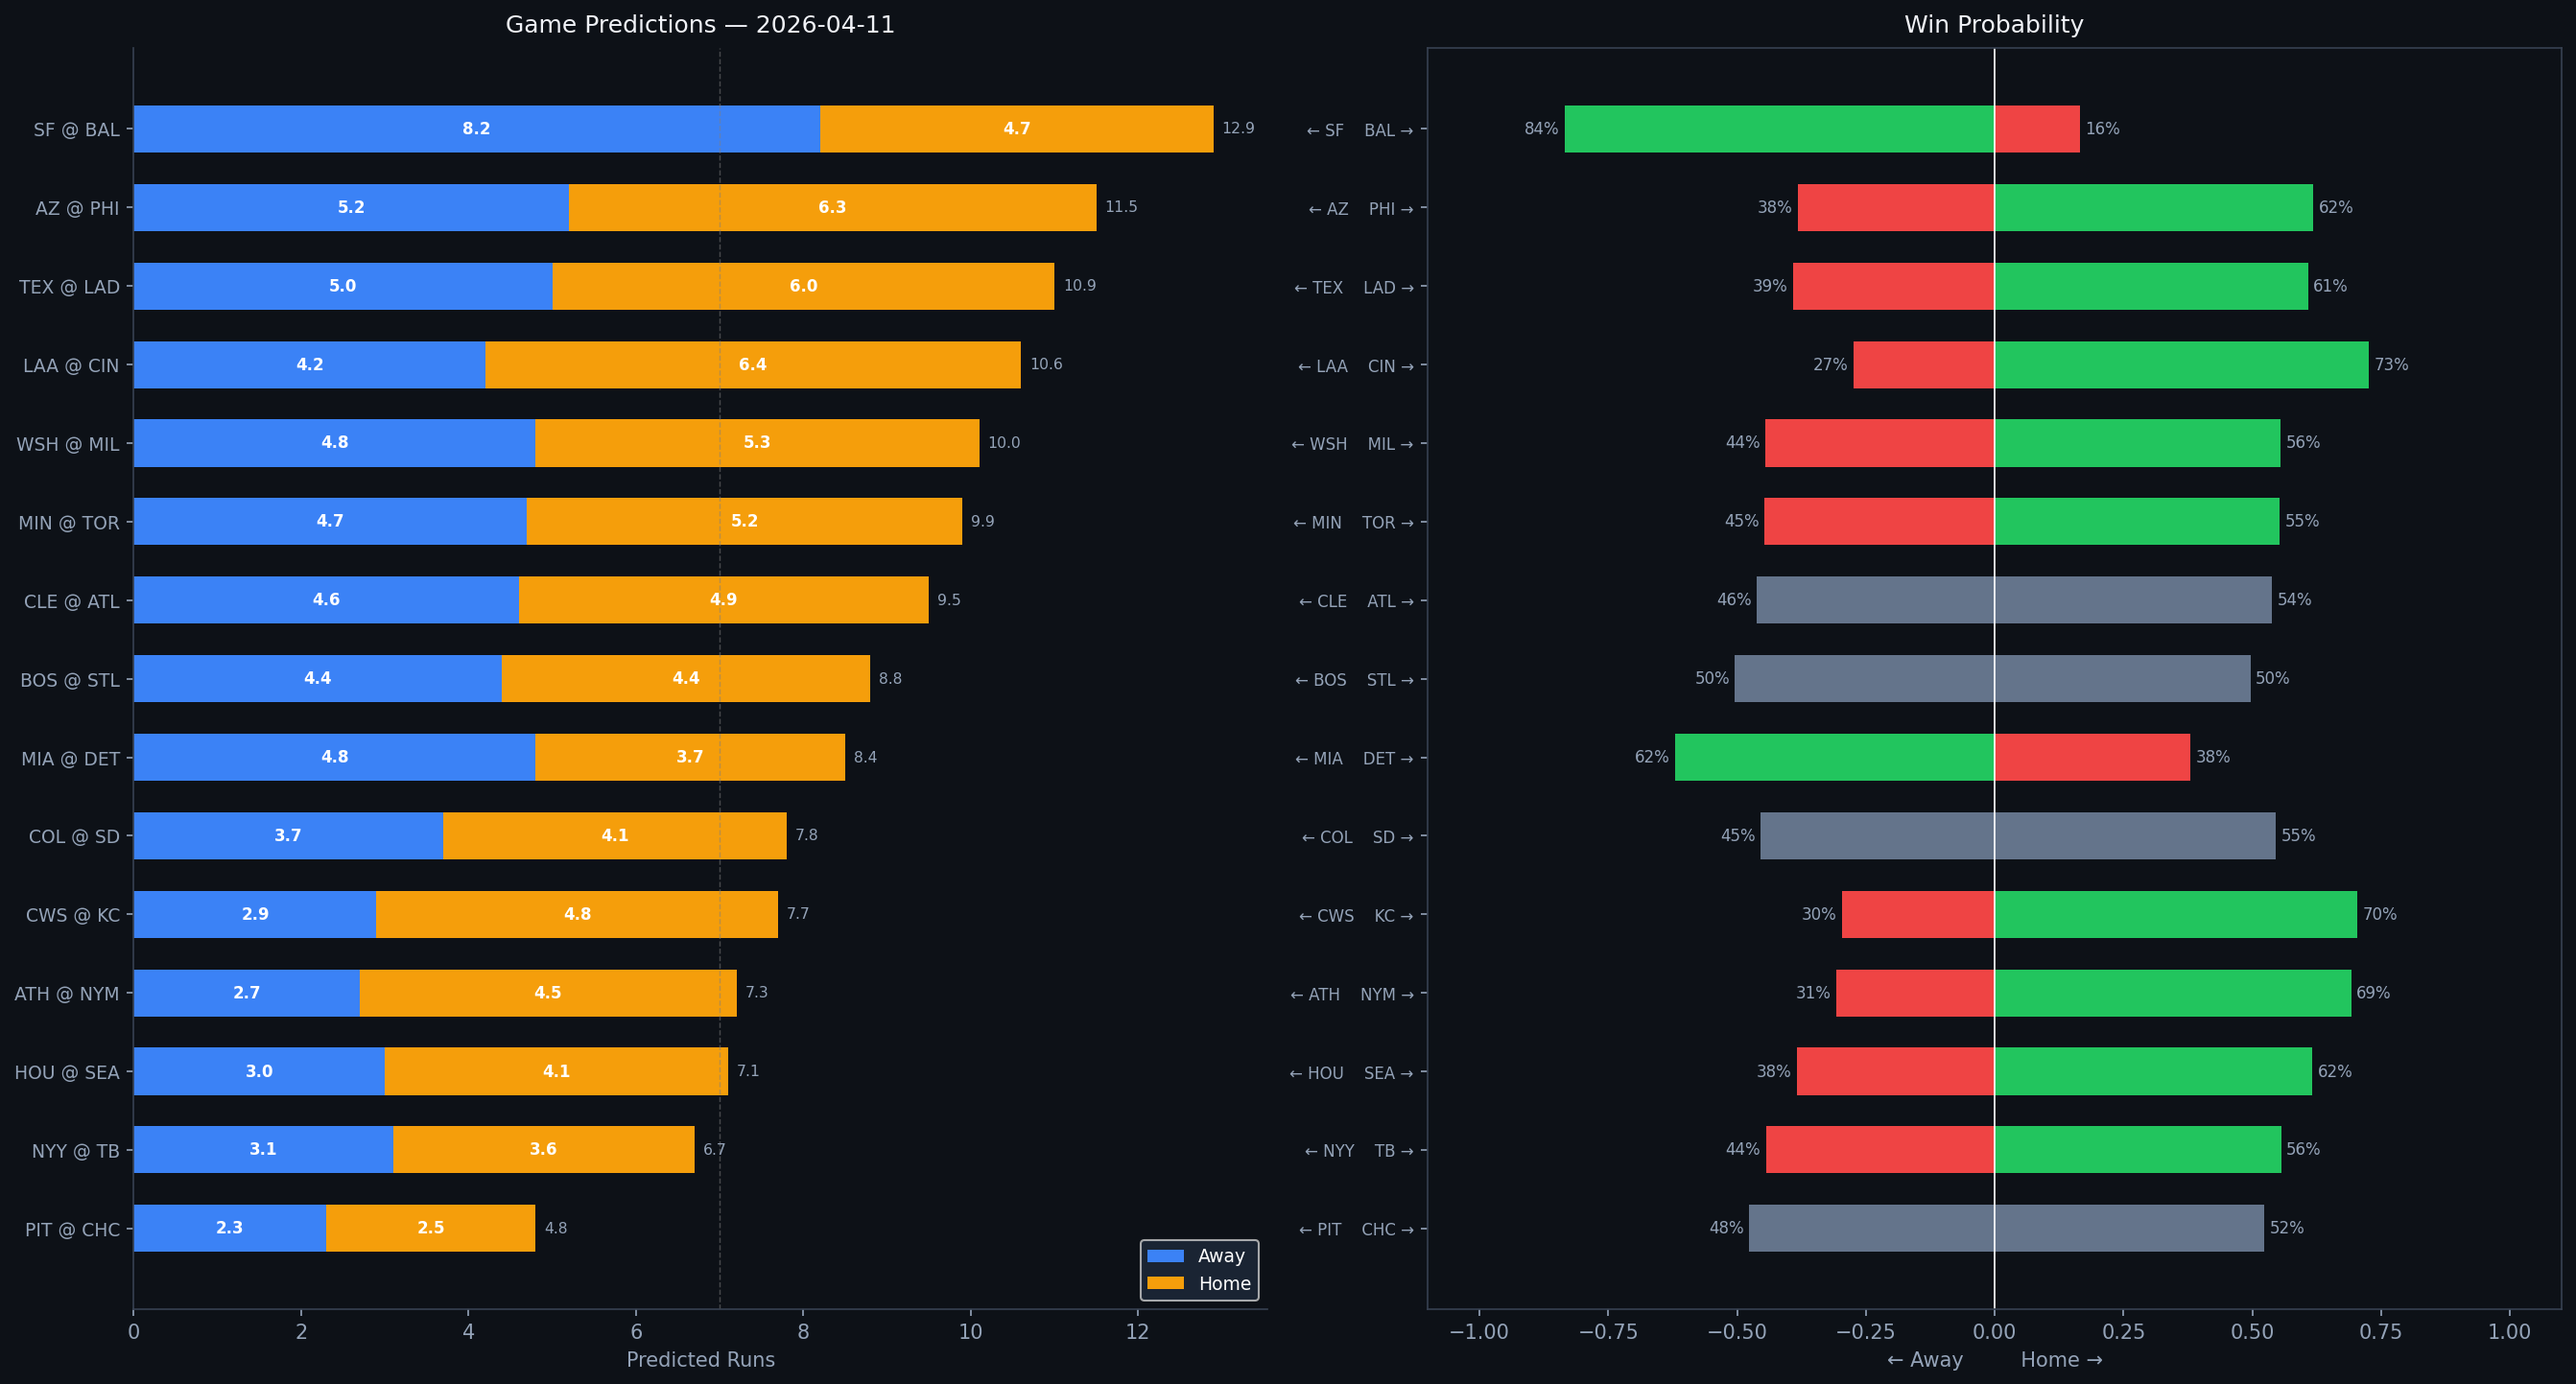
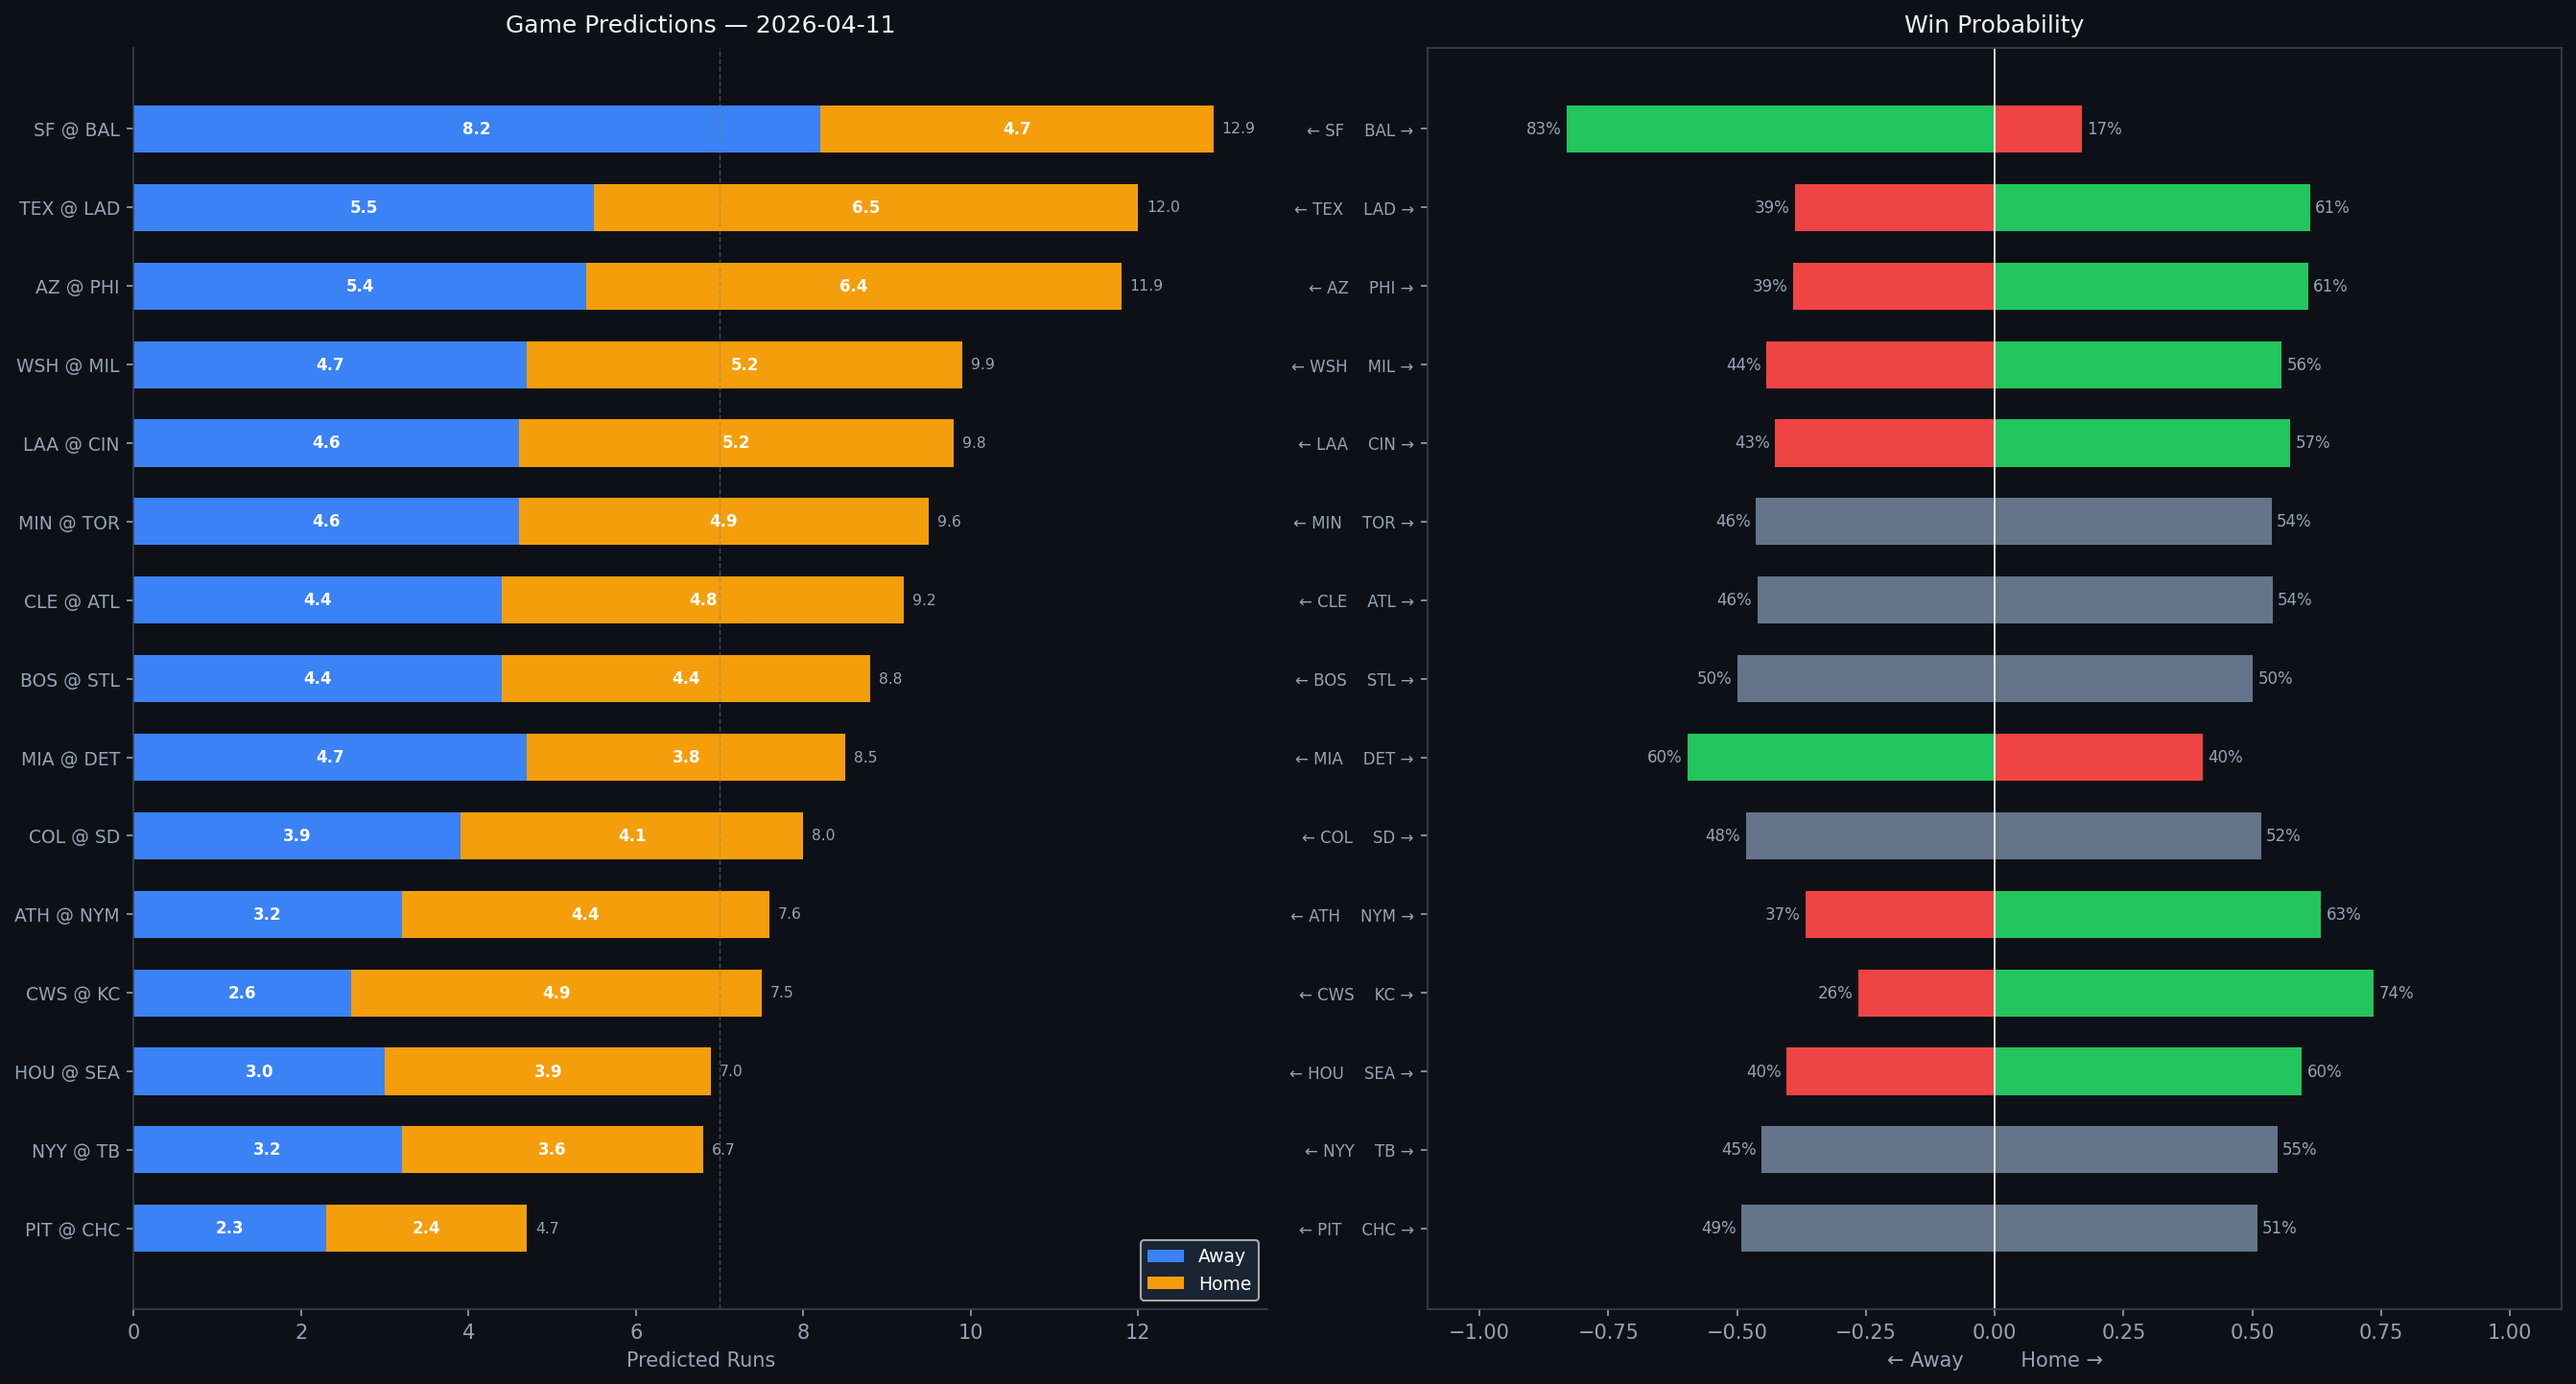
predictions: 2026-04-11 [skip ci]

diff --git a/docs/index.html b/docs/index.html
@@ -101,196 +101,196 @@
           <td class="matchup">SF @ BAL</td>
           <td class="score">8.2 – 4.7</td>
           <td class="winner-away">SF</td>
-          <td>16% / 84%</td>
+          <td>17% / 83%</td>
           <td class="total">12.9</td>
           <td>0.731 / 0.816</td>
           <td>0.347 / 0.27</td>
           <td>11.7% / 8.0%</td>
-          <td>Chris Bassitt (3.69)</td>
           <td>Logan Webb (3.41) <span class="elite">⚡ Logan Webb</span></td>
+          <td>Chris Bassitt (3.69)</td>
+          <td class="weather">80°F / 22mph / 3% rain</td>
+        </tr>
+        <tr>
+          <td class="matchup">TEX @ LAD</td>
+          <td class="score">5.5 – 6.5</td>
+          <td class="winner-home">LAD</td>
+          <td>61% / 39%</td>
+          <td class="total">12.0</td>
+          <td>0.755 / 0.768</td>
+          <td>0.41 / 0.328</td>
+          <td>13.7% / 14.3%</td>
+          <td>Jack Leiter (4.67)</td>
+          <td>Emmet Sheehan (4.04)</td>
           <td class="weather">72°F / 8mph / 10% rain</td>
         </tr>
         <tr>
           <td class="matchup">AZ @ PHI</td>
-          <td class="score">5.2 – 6.3</td>
+          <td class="score">5.4 – 6.4</td>
           <td class="winner-home">PHI</td>
-          <td>62% / 38%</td>
-          <td class="total">11.5</td>
-          <td>0.786 / 0.73</td>
+          <td>61% / 39%</td>
+          <td class="total">11.9</td>
+          <td>0.786 / 0.727</td>
           <td>0.334 / 0.317</td>
           <td>12.0% / 12.5%</td>
-          <td>Taijuan Walker (4.22)</td>
           <td>Brandon Pfaadt (5.17)</td>
-          <td class="weather">65°F / 12mph / 0% rain</td>
-        </tr>
-        <tr>
-          <td class="matchup">TEX @ LAD</td>
-          <td class="score">5.0 – 6.0</td>
-          <td class="winner-home">LAD</td>
-          <td>61% / 39%</td>
-          <td class="total">10.9</td>
-          <td>0.755 / 0.768</td>
-          <td>0.41 / 0.328</td>
-          <td>13.7% / 14.3%</td>
-          <td>Emmet Sheehan (4.04)</td>
-          <td>Jack Leiter (4.67)</td>
-          <td class="weather">72°F / 8mph / 10% rain</td>
-        </tr>
-        <tr>
-          <td class="matchup">LAA @ CIN</td>
-          <td class="score">4.2 – 6.4</td>
-          <td class="winner-home">CIN</td>
-          <td>73% / 27%</td>
-          <td class="total">10.6</td>
-          <td>0.742 / 0.725</td>
-          <td>0.298 / 0.261</td>
-          <td>12.5% / 9.8%</td>
-          <td>Brandon Williamson (4.42)</td>
-          <td>George Klassen (6.75)</td>
-          <td class="weather">88°F / 11mph / 0% rain 🏟</td>
+          <td>Taijuan Walker (4.23)</td>
+          <td class="weather">64°F / 11mph / 0% rain</td>
         </tr>
         <tr>
           <td class="matchup">WSH @ MIL</td>
-          <td class="score">4.8 – 5.3</td>
+          <td class="score">4.7 – 5.2</td>
           <td class="winner-home">MIL</td>
           <td>56% / 44%</td>
-          <td class="total">10.0</td>
+          <td class="total">9.9</td>
           <td>0.7 / 0.687</td>
           <td>0.33 / 0.365</td>
           <td>10.3% / 9.5%</td>
-          <td>Kyle Harrison (4.3)</td>
           <td>Foster Griffin (4.5)</td>
+          <td>Kyle Harrison (4.3)</td>
+          <td class="weather">44°F / 10mph / 49% rain</td>
+        </tr>
+        <tr>
+          <td class="matchup">LAA @ CIN</td>
+          <td class="score">4.6 – 5.2</td>
+          <td class="winner-home">CIN</td>
+          <td>57% / 43%</td>
+          <td class="total">9.8</td>
+          <td>0.77 / 0.728</td>
+          <td>0.305 / 0.238</td>
+          <td>13.7% / 10.2%</td>
+          <td>George Klassen (6.75)</td>
+          <td>Brandon Williamson (4.42)</td>
           <td class="weather">72°F / 8mph / 10% rain 🏟</td>
         </tr>
         <tr>
           <td class="matchup">MIN @ TOR</td>
-          <td class="score">4.7 – 5.2</td>
+          <td class="score">4.6 – 4.9</td>
           <td class="winner-home">TOR</td>
-          <td>55% / 45%</td>
-          <td class="total">9.9</td>
+          <td>54% / 46%</td>
+          <td class="total">9.6</td>
           <td>0.747 / 0.692</td>
           <td>0.334 / 0.284</td>
           <td>11.9% / 11.4%</td>
-          <td>Eric Lauer (4.14)</td>
           <td>Joe Ryan (3.8)</td>
-          <td class="weather">48°F / 6mph / 2% rain</td>
+          <td>Eric Lauer (4.14)</td>
+          <td class="weather">49°F / 7mph / 3% rain</td>
         </tr>
         <tr>
           <td class="matchup">CLE @ ATL</td>
-          <td class="score">4.6 – 4.9</td>
+          <td class="score">4.4 – 4.8</td>
           <td class="winner-home">ATL</td>
           <td>54% / 46%</td>
-          <td class="total">9.5</td>
+          <td class="total">9.2</td>
           <td>0.722 / 0.713</td>
           <td>0.283 / 0.327</td>
           <td>11.0% / 12.5%</td>
-          <td>Martín Pérez (4.41)</td>
           <td>Parker Messick (2.31)</td>
-          <td class="weather">72°F / 8mph / 10% rain 🏟</td>
+          <td>Martín Pérez (4.41)</td>
+          <td class="weather">61°F / 14mph / 0% rain</td>
         </tr>
         <tr>
           <td class="matchup">BOS @ STL</td>
           <td class="score">4.4 – 4.4</td>
-          <td class="winner-away">BOS</td>
+          <td class="winner-home">STL</td>
           <td>50% / 50%</td>
           <td class="total">8.8</td>
           <td>0.669 / 0.699</td>
           <td>0.28 / 0.275</td>
           <td>10.7% / 8.0%</td>
-          <td>Kyle Leahy (3.76)</td>
           <td>Ranger Suarez (3.43)</td>
-          <td class="weather">72°F / 8mph / 10% rain</td>
+          <td>Kyle Leahy (3.76)</td>
+          <td class="weather">59°F / 6mph / 0% rain</td>
         </tr>
         <tr>
           <td class="matchup">MIA @ DET</td>
-          <td class="score">4.8 – 3.7</td>
+          <td class="score">4.7 – 3.8</td>
           <td class="winner-away">MIA</td>
-          <td>38% / 62%</td>
-          <td class="total">8.4</td>
+          <td>40% / 60%</td>
+          <td class="total">8.5</td>
           <td>0.739 / 0.722</td>
           <td>0.3 / 0.304</td>
           <td>13.9% / 12.0%</td>
-          <td>Casey Mize (4.22)</td>
           <td>Janson Junk (4.73)</td>
-          <td class="weather">49°F / 6mph / 2% rain</td>
+          <td>Casey Mize (4.21)</td>
+          <td class="weather">50°F / 7mph / 3% rain</td>
         </tr>
         <tr>
           <td class="matchup">COL @ SD</td>
-          <td class="score">3.7 – 4.1</td>
+          <td class="score">3.9 – 4.1</td>
           <td class="winner-home">SD</td>
-          <td>55% / 45%</td>
-          <td class="total">7.8</td>
+          <td>52% / 48%</td>
+          <td class="total">8.0</td>
           <td>0.737 / 0.679</td>
           <td>0.308 / 0.336</td>
           <td>12.5% / 11.8%</td>
-          <td>Germán Márquez (4.67)</td>
           <td>Ryan Feltner (5.17)</td>
+          <td>Germán Márquez (4.67)</td>
+          <td class="weather">72°F / 8mph / 10% rain</td>
+        </tr>
+        <tr>
+          <td class="matchup">ATH @ NYM</td>
+          <td class="score">3.2 – 4.4</td>
+          <td class="winner-home">NYM</td>
+          <td>63% / 37%</td>
+          <td class="total">7.6</td>
+          <td>0.707 / 0.701</td>
+          <td>0.326 / 0.319</td>
+          <td>10.7% / 9.2%</td>
+          <td>Jacob Lopez (4.37)</td>
+          <td>Kodai Senga (3.0)</td>
           <td class="weather">72°F / 8mph / 10% rain</td>
         </tr>
         <tr>
           <td class="matchup">CWS @ KC</td>
-          <td class="score">2.9 – 4.8</td>
+          <td class="score">2.6 – 4.9</td>
           <td class="winner-home">KC</td>
-          <td>70% / 30%</td>
-          <td class="total">7.7</td>
+          <td>74% / 26%</td>
+          <td class="total">7.5</td>
           <td>0.736 / 0.608</td>
           <td>0.303 / 0.28</td>
           <td>12.5% / 11.0%</td>
-          <td>Michael Wacha (3.86)</td>
           <td>Erick Fedde (4.93)</td>
-          <td class="weather">80°F / 22mph / 5% rain</td>
-        </tr>
-        <tr>
-          <td class="matchup">ATH @ NYM</td>
-          <td class="score">2.7 – 4.5</td>
-          <td class="winner-home">NYM</td>
-          <td>69% / 31%</td>
-          <td class="total">7.3</td>
-          <td>0.707 / 0.701</td>
-          <td>0.326 / 0.319</td>
-          <td>10.7% / 9.2%</td>
-          <td>Kodai Senga (3.0)</td>
-          <td>Jacob Lopez (4.37)</td>
-          <td class="weather">62°F / 14mph / 0% rain</td>
+          <td>Michael Wacha (3.86)</td>
+          <td class="weather">72°F / 8mph / 10% rain</td>
         </tr>
         <tr>
           <td class="matchup">HOU @ SEA</td>
-          <td class="score">3.0 – 4.1</td>
+          <td class="score">3.0 – 3.9</td>
           <td class="winner-home">SEA</td>
-          <td>62% / 38%</td>
-          <td class="total">7.1</td>
+          <td>60% / 40%</td>
+          <td class="total">7.0</td>
           <td>0.73 / 0.734</td>
           <td>0.262 / 0.339</td>
           <td>10.2% / 9.3%</td>
-          <td>Luis Castillo (3.55)</td>
           <td>Lance McCullers Jr. (3.69)</td>
+          <td>Luis Castillo (3.55)</td>
           <td class="weather">72°F / 8mph / 10% rain</td>
         </tr>
         <tr>
           <td class="matchup">NYY @ TB</td>
-          <td class="score">3.1 – 3.6</td>
+          <td class="score">3.2 – 3.6</td>
           <td class="winner-home">TB</td>
-          <td>56% / 44%</td>
+          <td>55% / 45%</td>
           <td class="total">6.7</td>
           <td>0.685 / 0.77</td>
           <td>0.317 / 0.313</td>
           <td>9.9% / 13.5%</td>
-          <td>Nick Martinez (4.13)</td>
           <td>Max Fried (3.0)</td>
-          <td class="weather">80°F / 22mph / 5% rain</td>
+          <td>Nick Martinez (4.13)</td>
+          <td class="weather">72°F / 8mph / 10% rain</td>
         </tr>
         <tr>
           <td class="matchup">PIT @ CHC</td>
-          <td class="score">2.3 – 2.5</td>
+          <td class="score">2.3 – 2.4</td>
           <td class="winner-home">CHC</td>
-          <td>52% / 48%</td>
-          <td class="total">4.8</td>
-          <td>0.754 / 0.677</td>
-          <td>0.326 / 0.241</td>
-          <td>15.2% / 9.6%</td>
-          <td>Edward Cabrera (3.96)</td>
+          <td>51% / 49%</td>
+          <td class="total">4.7</td>
+          <td>0.76 / 0.703</td>
+          <td>0.313 / 0.307</td>
+          <td>14.2% / 11.2%</td>
           <td>Braxton Ashcraft (2.64)</td>
-          <td class="weather">80°F / 22mph / 5% rain</td>
+          <td>Edward Cabrera (3.96)</td>
+          <td class="weather">80°F / 22mph / 3% rain</td>
         </tr>
         </tbody>
       </table>
